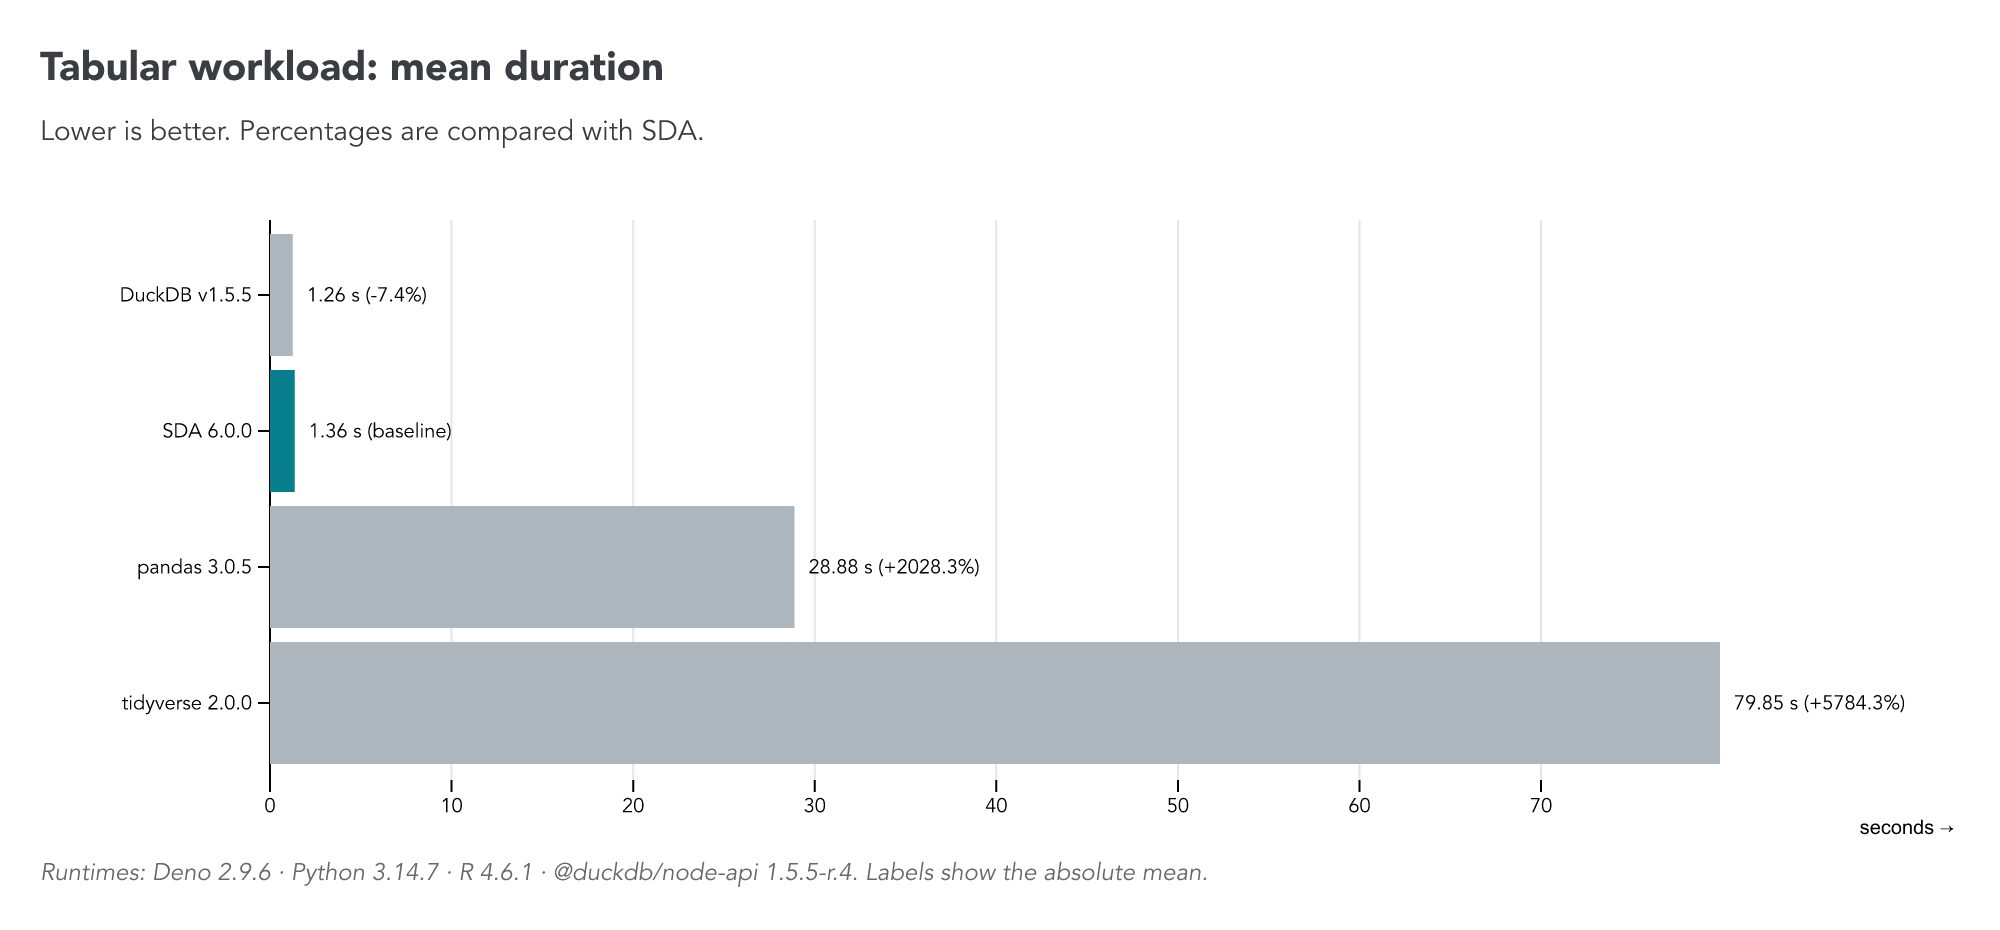
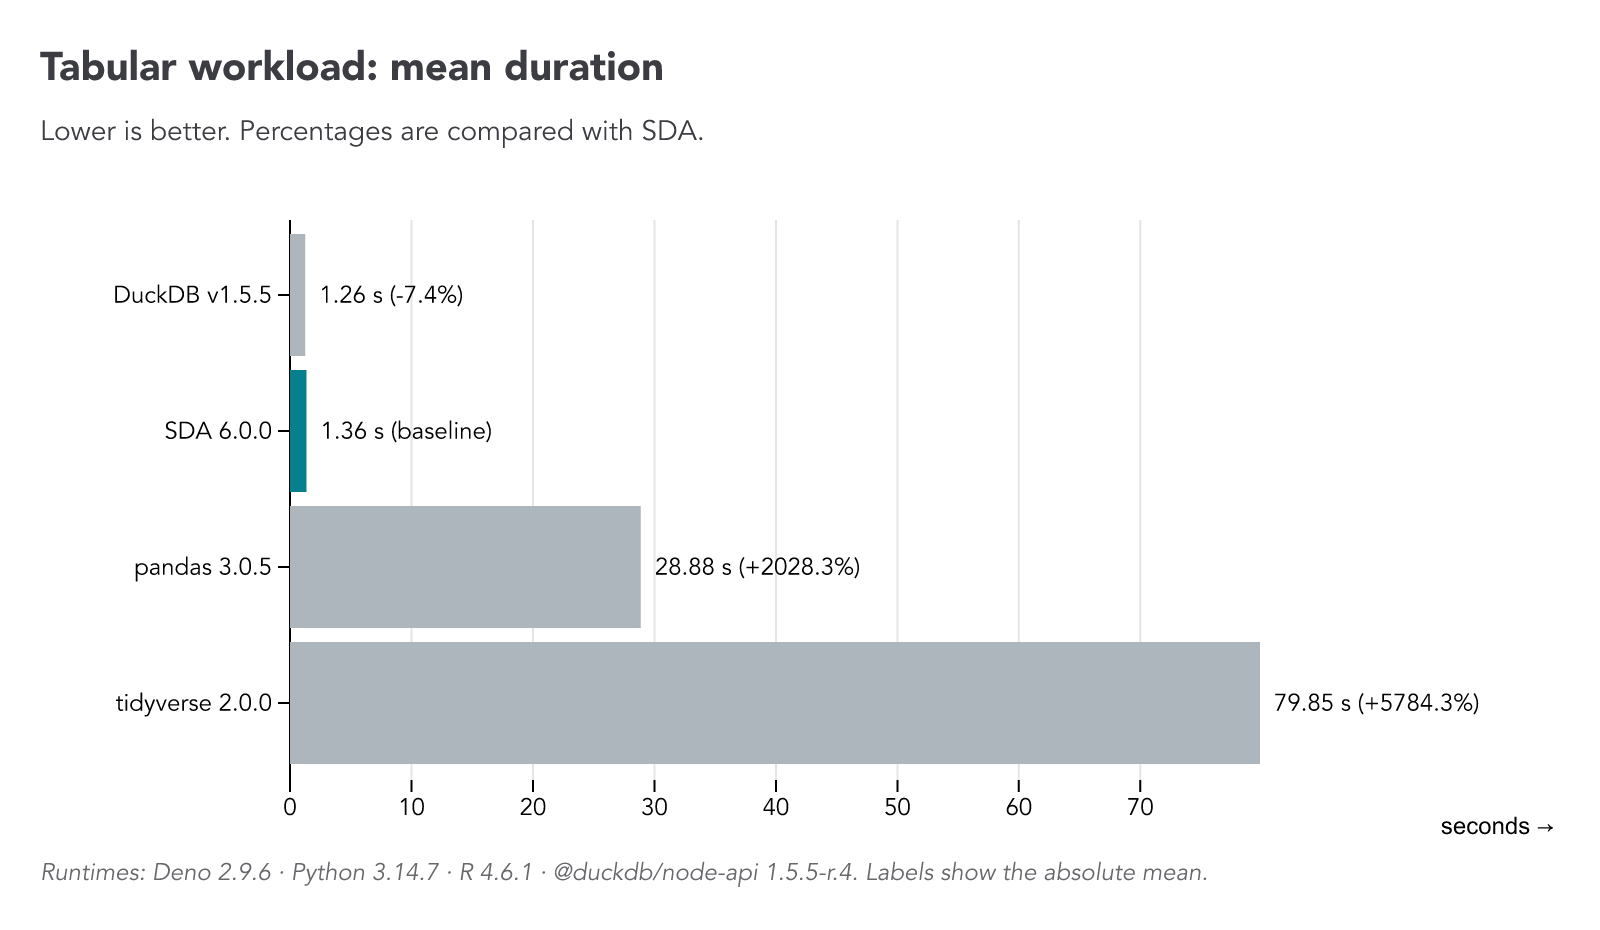
Improve benchmark chart readability

diff --git a/benchmarks/report.ts b/benchmarks/report.ts
@@ -141,10 +141,11 @@ function chart(
   const unit = metric === "duration" ? "seconds" : "MB";
   const max = Math.max(...rows.map((row) => row.value));
   return plot({
-    width: 960,
+    width: 760,
     height: 330,
-    marginLeft: 115,
-    marginRight: 120,
+    marginLeft: 125,
+    marginRight: 150,
+    style: { fontSize: "12px" },
     title: `${workload} workload: mean ${measure}`,
     subtitle: "Lower is better. Percentages are compared with SDA.",
     x: {

diff --git a/README.md b/README.md
@@ -686,7 +686,7 @@ const answer = await sdb
     { verbose: true },
   );
 
-console.log(answer);
+console.log(`${answer}\n`);
 
 await sdb.close();
 ```
